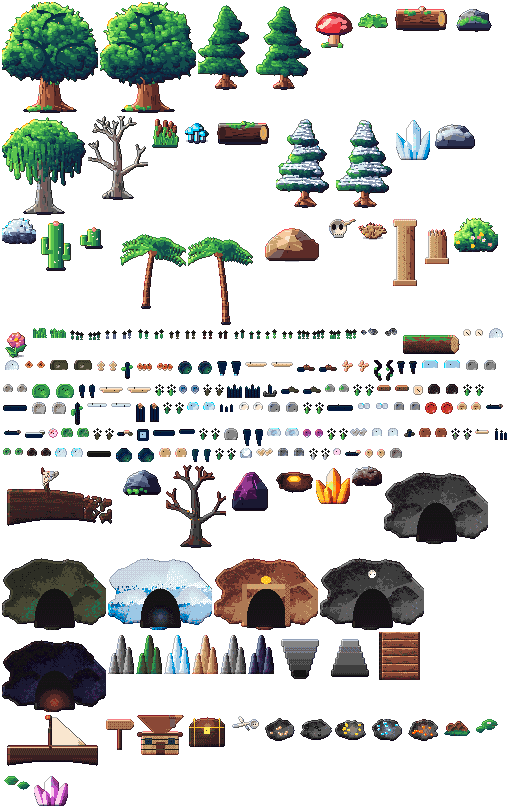
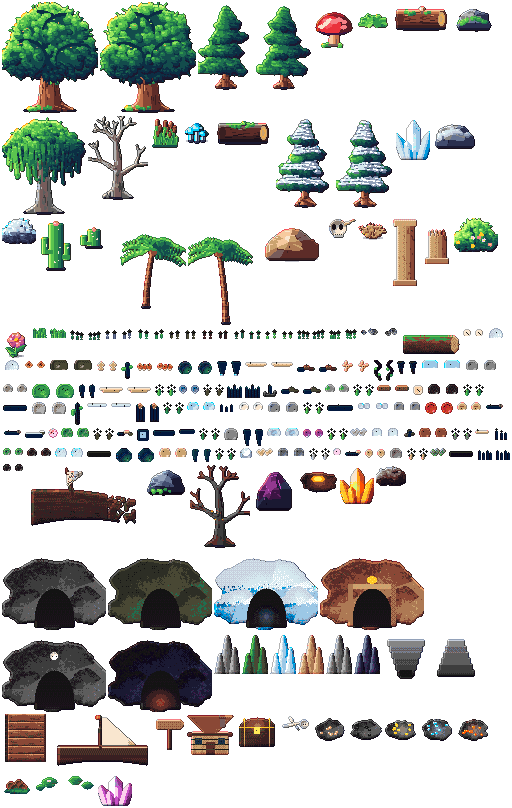
Ciclos 231-240/1000: 5 props (atlas 244) + teste atlas↔RegionWorld (uso cruzado) + evento flor exótica + dica

Changed region(s): [[0.0, 0.5569, 1.0, 1.0]]

diff --git a/src/game/RegionWorld.js b/src/game/RegionWorld.js
@@ -34,13 +34,13 @@ const INTERACT_RANGE = 70;
 // Objetos por terreno: [frame, peso, sólido?]. Sólido = base que bloqueia (largura, altura).
 const PROPS = {
   [T.FOREST]: { density: 0.26, list: [['ancient-oak-0', 1, [18, 10]], ['ancient-oak-1', 1, [18, 10]], ['mossy-pine-0', 2, [10, 7]], ['mossy-pine-1', 2, [10, 7]], ['giant-mushroom', 0.6, [10, 6]], ['fern', 3], ['fallen-log', 0.6, [40, 10]], ['mossy-rock', 1, [24, 10]], ['grass-tuft-0', 4], ['grass-tuft-1', 4], ['flower-tuft-0', 1.2], ['flower-tuft-1', 1.2], ['forest-flower-0', 0.8], ['forest-flower-1', 0.8], ['pebbles-0', 0.7], ['pebbles-1', 0.7], ['mushroom-cluster-0', 0.5], ['mushroom-cluster-1', 0.5], ['berry-bush-0', 0.6], ['berry-bush-1', 0.6], ['yellow-flower-0', 0.7], ['yellow-flower-1', 0.7], ['bark-scrap-0', 0.5], ['bark-scrap-1', 0.5], ['pink-flower-0', 0.6], ['pink-flower-1', 0.6], ['rotten-log', 0.4, [30, 9]], ['red-cap-0', 0.4], ['red-cap-1', 0.4], ['tan-shroom-0', 0.4], ['tan-shroom-1', 0.4], ['forest-boulder', 0.3, [14, 8]]] },
-  [T.SWAMP]: { density: 0.17, list: [['willow', 1.4, [14, 9]], ['dead-tree', 1.4, [10, 7]], ['reeds', 3], ['swamp-shroom', 1.2], ['bog-log', 0.5, [40, 10]], ['mossy-rock', 0.5, [24, 10]], ['grass-tuft-0', 3], ['flower-tuft-1', 0.6], ['swamp-flower-0', 0.6], ['swamp-flower-1', 0.6], ['mud-puddle-0', 0.5], ['mud-puddle-1', 0.5], ['twisted-root-0', 0.5], ['twisted-root-1', 0.5], ['river-stone-0', 0.5, [10, 6]], ['river-stone-1', 0.5, [10, 6]], ['blue-mushroom-0', 0.5], ['blue-mushroom-1', 0.5], ['moss-pebble-0', 0.6], ['moss-pebble-1', 0.6], ['reed-0', 0.7], ['reed-1', 0.7], ['green-stone-0', 0.5, [10, 6]], ['green-stone-1', 0.5, [10, 6]], ['lilac-flower-0', 0.5], ['lilac-flower-1', 0.5], ['swamp-root', 0.5], ['swamp-pebble-0', 0.5], ['swamp-pebble-1', 0.5], ['yellow-swamp-flower-0', 0.5], ['yellow-swamp-flower-1', 0.5]] },
-  [T.SNOW]: { density: 0.15, list: [['snow-pine-0', 2, [10, 7]], ['snow-pine-1', 2, [10, 7]], ['ice-crystal', 1, [16, 8]], ['snow-rock', 1.4, [28, 10]], ['frozen-bush', 1.4], ['grass-tuft-1', 1.5], ['snow-flower-0', 0.8], ['snow-flower-1', 0.8], ['pebbles-0', 0.5], ['pebbles-1', 0.5], ['frozen-log', 0.5, [40, 10]], ['snow-mound-0', 0.6], ['snow-mound-1', 0.6], ['ice-shard-0', 0.6, [6, 10]], ['ice-shard-1', 0.6, [6, 10]], ['ice-spike-0', 0.6, [4, 8]], ['ice-spike-1', 0.6, [4, 8]], ['white-flower-0', 0.6], ['white-flower-1', 0.6], ['blue-ice-0', 0.5], ['blue-ice-1', 0.5], ['snow-track-0', 0.6], ['snow-track-1', 0.6], ['snow-branch', 0.4, [24, 10]], ['carved-ice', 0.4, [10, 10]], ['snow-hollow-0', 0.5], ['snow-hollow-1', 0.5], ['snow-pile-0', 0.5], ['snow-pile-1', 0.5], ['blue-snow-flower-0', 0.5], ['blue-snow-flower-1', 0.5], ['clear-ice-rock-0', 0.5, [10, 6]], ['clear-ice-rock-1', 0.5, [10, 6]], ['snow-covered-rock', 0.4, [12, 7]], ['lilac-ice-flower-0', 0.5], ['lilac-ice-flower-1', 0.5]] },
-  [T.SAND]: { density: 0.07, list: [['cactus', 2, [12, 7]], ['cactus-small', 2, [10, 6]], ['desert-rock', 1, [40, 12]], ['skull', 0.7], ['dry-bush', 2], ['ruin-pillar', 0.3, [18, 8]], ['ruin-pillar-broken', 0.4, [18, 8]], ['grass-tuft-0', 1.5], ['dune-flower-0', 0.7], ['dune-flower-1', 0.7], ['pebbles-0', 0.6], ['pebbles-1', 0.6], ['blooming-cactus', 0.4, [12, 7]], ['tall-cactus', 0.35, [10, 12]], ['footprint-0', 0.4], ['footprint-1', 0.4], ['desert-bloom-0', 0.5], ['desert-bloom-1', 0.5], ['carved-pebble-0', 0.5], ['carved-pebble-1', 0.5], ['dry-log', 0.4, [28, 8]], ['white-desert-flower-0', 0.5], ['white-desert-flower-1', 0.5], ['desert-stone-0', 0.5, [10, 6]], ['desert-stone-1', 0.5, [10, 6]]] },,
+  [T.SWAMP]: { density: 0.17, list: [['willow', 1.4, [14, 9]], ['dead-tree', 1.4, [10, 7]], ['reeds', 3], ['swamp-shroom', 1.2], ['bog-log', 0.5, [40, 10]], ['mossy-rock', 0.5, [24, 10]], ['grass-tuft-0', 3], ['flower-tuft-1', 0.6], ['swamp-flower-0', 0.6], ['swamp-flower-1', 0.6], ['mud-puddle-0', 0.5], ['mud-puddle-1', 0.5], ['twisted-root-0', 0.5], ['twisted-root-1', 0.5], ['river-stone-0', 0.5, [10, 6]], ['river-stone-1', 0.5, [10, 6]], ['blue-mushroom-0', 0.5], ['blue-mushroom-1', 0.5], ['moss-pebble-0', 0.6], ['moss-pebble-1', 0.6], ['reed-0', 0.7], ['reed-1', 0.7], ['green-stone-0', 0.5, [10, 6]], ['green-stone-1', 0.5, [10, 6]], ['lilac-flower-0', 0.5], ['lilac-flower-1', 0.5], ['swamp-root', 0.5], ['swamp-pebble-0', 0.5], ['swamp-pebble-1', 0.5], ['yellow-swamp-flower-0', 0.5], ['yellow-swamp-flower-1', 0.5], ['swamp-gravel', 0.6]] },,
+  [T.SNOW]: { density: 0.15, list: [['snow-pine-0', 2, [10, 7]], ['snow-pine-1', 2, [10, 7]], ['ice-crystal', 1, [16, 8]], ['snow-rock', 1.4, [28, 10]], ['frozen-bush', 1.4], ['grass-tuft-1', 1.5], ['snow-flower-0', 0.8], ['snow-flower-1', 0.8], ['pebbles-0', 0.5], ['pebbles-1', 0.5], ['frozen-log', 0.5, [40, 10]], ['snow-mound-0', 0.6], ['snow-mound-1', 0.6], ['ice-shard-0', 0.6, [6, 10]], ['ice-shard-1', 0.6, [6, 10]], ['ice-spike-0', 0.6, [4, 8]], ['ice-spike-1', 0.6, [4, 8]], ['white-flower-0', 0.6], ['white-flower-1', 0.6], ['blue-ice-0', 0.5], ['blue-ice-1', 0.5], ['snow-track-0', 0.6], ['snow-track-1', 0.6], ['snow-branch', 0.4, [24, 10]], ['carved-ice', 0.4, [10, 10]], ['snow-hollow-0', 0.5], ['snow-hollow-1', 0.5], ['snow-pile-0', 0.5], ['snow-pile-1', 0.5], ['blue-snow-flower-0', 0.5], ['blue-snow-flower-1', 0.5], ['clear-ice-rock-0', 0.5, [10, 6]], ['clear-ice-rock-1', 0.5, [10, 6]], ['snow-covered-rock', 0.4, [12, 7]], ['lilac-ice-flower-0', 0.5], ['lilac-ice-flower-1', 0.5], ['ice-log', 0.35, [30, 9]]] },,
+  [T.SAND]: { density: 0.07, list: [['cactus', 2, [12, 7]], ['cactus-small', 2, [10, 6]], ['desert-rock', 1, [40, 12]], ['skull', 0.7], ['dry-bush', 2], ['ruin-pillar', 0.3, [18, 8]], ['ruin-pillar-broken', 0.4, [18, 8]], ['grass-tuft-0', 1.5], ['dune-flower-0', 0.7], ['dune-flower-1', 0.7], ['pebbles-0', 0.6], ['pebbles-1', 0.6], ['blooming-cactus', 0.4, [12, 7]], ['tall-cactus', 0.35, [10, 12]], ['footprint-0', 0.4], ['footprint-1', 0.4], ['desert-bloom-0', 0.5], ['desert-bloom-1', 0.5], ['carved-pebble-0', 0.5], ['carved-pebble-1', 0.5], ['dry-log', 0.4, [28, 8]], ['white-desert-flower-0', 0.5], ['white-desert-flower-1', 0.5], ['desert-stone-0', 0.5, [10, 6]], ['desert-stone-1', 0.5, [10, 6]], ['pink-dune-flower-0', 0.5], ['pink-dune-flower-1', 0.5]] },,
   [T.DUNE]: { density: 0.03, list: [['dry-bush', 1], ['skull', 0.4], ['cactus-small', 0.5, [10, 6]], ['grass-tuft-1', 1], ['dune-flower-0', 0.5], ['dune-flower-1', 0.5], ['footprint-0', 0.5], ['footprint-1', 0.5], ['small-rock-0', 0.5], ['small-rock-1', 0.5], ['dune-wave-0', 0.6], ['dune-wave-1', 0.6], ['tall-grass-0', 0.6], ['tall-grass-1', 0.6], ['dry-bush-2', 0.7], ['dune-root', 0.5], ['dune-bloom', 0.5], ['dune-gravel', 0.6], ['dry-branch', 0.5]] },
-  [T.BEACH]: { density: 0.06, list: [['palm-0', 1.5, [8, 6]], ['palm-1', 1.5, [8, 6]], ['sea-rock', 1, [28, 10]], ['big-flower', 0.3], ['flower-tuft-0', 1.5], ['grass-tuft-0', 2], ['beach-flower-0', 0.7], ['beach-flower-1', 0.7], ['shell-0', 0.6], ['shell-1', 0.6], ['sand-ripple-0', 0.8], ['sand-ripple-1', 0.8], ['starfish-0', 0.4], ['starfish-1', 0.4], ['tide-puddle-0', 0.4], ['tide-puddle-1', 0.4], ['broken-anchor', 0.25, [12, 10]], ['spiral-shell', 0.4], ['beach-boulder-0', 0.3, [14, 8]], ['beach-boulder-1', 0.3, [14, 8]], ['sea-foam-0', 0.5], ['sea-foam-1', 0.5], ['pale-stone-0', 0.5], ['pale-stone-1', 0.5], ['tide-rock-0', 0.5, [10, 6]], ['tide-rock-1', 0.5, [10, 6]], ['pink-shell', 0.4], ['driftwood', 0.4], ['beach-gravel', 0.6], ['pale-bark', 0.4], ['wreck-log', 0.3, [30, 9]], ['wet-stone-0', 0.5, [10, 6]], ['wet-stone-1', 0.5, [10, 6]], ['pink-pebble', 0.5]] },
+  [T.BEACH]: { density: 0.06, list: [['palm-0', 1.5, [8, 6]], ['palm-1', 1.5, [8, 6]], ['sea-rock', 1, [28, 10]], ['big-flower', 0.3], ['flower-tuft-0', 1.5], ['grass-tuft-0', 2], ['beach-flower-0', 0.7], ['beach-flower-1', 0.7], ['shell-0', 0.6], ['shell-1', 0.6], ['sand-ripple-0', 0.8], ['sand-ripple-1', 0.8], ['starfish-0', 0.4], ['starfish-1', 0.4], ['tide-puddle-0', 0.4], ['tide-puddle-1', 0.4], ['broken-anchor', 0.25, [12, 10]], ['spiral-shell', 0.4], ['beach-boulder-0', 0.3, [14, 8]], ['beach-boulder-1', 0.3, [14, 8]], ['sea-foam-0', 0.5], ['sea-foam-1', 0.5], ['pale-stone-0', 0.5], ['pale-stone-1', 0.5], ['tide-rock-0', 0.5, [10, 6]], ['tide-rock-1', 0.5, [10, 6]], ['pink-shell', 0.4], ['driftwood', 0.4], ['beach-gravel', 0.6], ['pale-bark', 0.4], ['wreck-log', 0.3, [30, 9]], ['wet-stone-0', 0.5, [10, 6]], ['wet-stone-1', 0.5, [10, 6]], ['pink-pebble', 0.5], ['sea-grass-0', 0.6], ['sea-grass-1', 0.6]] },
   [T.JUNGLE]: { density: 0.17, list: [['palm-0', 1.5, [8, 6]], ['palm-1', 1.5, [8, 6]], ['tropical-bush', 3], ['big-flower', 2], ['sea-rock', 0.4, [28, 10]], ['grass-tuft-0', 3], ['grass-tuft-1', 3], ['flower-tuft-1', 2], ['jungle-flower-0', 0.8], ['jungle-flower-1', 0.8], ['vine-0', 0.7], ['vine-1', 0.7], ['jungle-root-0', 0.5], ['jungle-root-1', 0.5], ['purple-flower-0', 0.6], ['purple-flower-1', 0.6], ['jungle-log', 0.4, [32, 9]], ['purple-shroom-0', 0.4], ['purple-shroom-1', 0.4], ['jungle-bush-0', 0.6], ['jungle-bush-1', 0.6]] },,
-  [T.ASH]: { density: 0.11, list: [['charred-tree', 2, [10, 7]], ['obsidian', 2, [28, 12]], ['lava-vent', 1], ['fire-crystal', 0.8, [14, 8]], ['ash-bush', 2], ['grass-tuft-1', 0.8], ['ash-flower-0', 0.5], ['ash-flower-1', 0.5], ['pebbles-0', 0.5], ['pebbles-1', 0.5], ['ember-0', 0.8], ['ember-1', 0.8], ['obsidian-shard-0', 0.5, [5, 8]], ['obsidian-shard-1', 0.5, [5, 8]], ['ember-flower-0', 0.5], ['ember-flower-1', 0.5], ['lava-rock-0', 0.5, [12, 6]], ['lava-rock-1', 0.5, [12, 6]], ['granite-0', 0.5, [12, 6]], ['granite-1', 0.5, [12, 6]], ['orange-flower-0', 0.5], ['orange-flower-1', 0.5], ['ash-spike-0', 0.5, [5, 10]], ['ash-spike-1', 0.5, [5, 10]], ['red-stone-0', 0.5, [10, 6]], ['red-stone-1', 0.5, [10, 6]], ['hot-ash-0', 0.6], ['hot-ash-1', 0.6], ['ash-crystal-0', 0.4, [5, 8]], ['ash-crystal-1', 0.4, [5, 8]], ['pale-ash-rock', 0.4, [12, 7]]] },
+  [T.ASH]: { density: 0.11, list: [['charred-tree', 2, [10, 7]], ['obsidian', 2, [28, 12]], ['lava-vent', 1], ['fire-crystal', 0.8, [14, 8]], ['ash-bush', 2], ['grass-tuft-1', 0.8], ['ash-flower-0', 0.5], ['ash-flower-1', 0.5], ['pebbles-0', 0.5], ['pebbles-1', 0.5], ['ember-0', 0.8], ['ember-1', 0.8], ['obsidian-shard-0', 0.5, [5, 8]], ['obsidian-shard-1', 0.5, [5, 8]], ['ember-flower-0', 0.5], ['ember-flower-1', 0.5], ['lava-rock-0', 0.5, [12, 6]], ['lava-rock-1', 0.5, [12, 6]], ['granite-0', 0.5, [12, 6]], ['granite-1', 0.5, [12, 6]], ['orange-flower-0', 0.5], ['orange-flower-1', 0.5], ['ash-spike-0', 0.5, [5, 10]], ['ash-spike-1', 0.5, [5, 10]], ['red-stone-0', 0.5, [10, 6]], ['red-stone-1', 0.5, [10, 6]], ['hot-ash-0', 0.6], ['hot-ash-1', 0.6], ['ash-crystal-0', 0.4, [5, 8]], ['ash-crystal-1', 0.4, [5, 8]], ['pale-ash-rock', 0.4, [12, 7]], ['small-lava-rock-0', 0.5], ['small-lava-rock-1', 0.5]] },
 };
 const NODE_DENSITY = 0.011;
 // Objetos que brilham no escuro (iluminam a noite e as cavernas).

diff --git a/src/art/biomeProps.js b/src/art/biomeProps.js
@@ -858,6 +858,52 @@ function flowerTuft(seed = 402) {
   return finish(p, { outline: 0.3 });
 }
 
+/** Flor de areia rosa (deserto). */
+function pinkDuneFlower(seed = 1267) {
+  const p = new Painter(10, 12, { transparent: true });
+  p.rect(4, 6, 2, 5, '#9a8a5a');
+  for (const [dx, dy] of [[-3, -2], [3, -2], [-2, 2], [2, 2], [0, -4]]) p.set(5 + dx, 5 + dy, '#f090b8');
+  p.set(5, 5, '#ffe8a0');
+  return finish(p, { outline: 0.3 });
+}
+
+/** Graveto de brejo. */
+function swampGravel(seed = 1273) {
+  const p = new Painter(16, 8, { transparent: true });
+  for (const [gx, gy] of [[3, 4], [7, 3], [11, 5], [13, 3], [5, 6]]) {
+    p.sphere(gx, gy, 1.6, '#5e6a50', '#7a8a68');
+  }
+  return finish(p, { outline: 0.3 });
+}
+
+/** Tronco de gelo (neve). */
+function iceLog(seed = 1279) {
+  const p = new Painter(26, 10, { transparent: true });
+  const ice = ['#a8c8e8', '#d0e4f4'];
+  p.rect(2, 4, 22, 4, shade([ice[0], ice[1]], 0.5));
+  p.set(2, 4, '#7a9cc0'); p.set(23, 7, '#7a9cc0');
+  p.set(10, 5, '#ffffff');
+  return finish(p, { outline: 0.35 });
+}
+
+/** Arbusto de praia (grama marinha). */
+function seaGrass(seed = 1283) {
+  const p = new Painter(16, 12, { transparent: true });
+  const g = ['#4a8a6a', '#6aa888'];
+  for (const [bx, h] of [[3, 10], [7, 8], [11, 9], [14, 7]]) {
+    for (let y = 11; y > 11 - h; y -= 2) p.rect(bx, y, 1, 2, shade([g[0], g[1]], 0.5));
+  }
+  return finish(p, { outline: 0.3 });
+}
+
+/** Pedra vulcânica pequena (cinzas). */
+function smallLavaRock(seed = 1289) {
+  const p = new Painter(10, 7, { transparent: true });
+  p.sphere(5, 4, 3.4, '#241c20', '#38303a');
+  p.set(4, 3, '#4e464e');
+  return finish(p, { outline: 0.35 });
+}
+
 /** Flor de gelo lilás (neve). */
 function lilacIceFlower(seed = 1237) {
   const p = new Painter(10, 12, { transparent: true });
@@ -2011,6 +2057,14 @@ const PAINTED_ENTRIES = [
   { name: 'tan-shroom-0', draw: () => tanShroom(1255) },
   { name: 'tan-shroom-1', draw: () => tanShroom(1257) },
   { name: 'pale-ash-rock', draw: () => paleAshRock(1259) },
+  { name: 'pink-dune-flower-0', draw: () => pinkDuneFlower(1267) },
+  { name: 'pink-dune-flower-1', draw: () => pinkDuneFlower(1271) },
+  { name: 'swamp-gravel', draw: () => swampGravel(1273) },
+  { name: 'ice-log', draw: () => iceLog(1279) },
+  { name: 'sea-grass-0', draw: () => seaGrass(1283) },
+  { name: 'sea-grass-1', draw: () => seaGrass(1285) },
+  { name: 'small-lava-rock-0', draw: () => smallLavaRock(1289) },
+  { name: 'small-lava-rock-1', draw: () => smallLavaRock(1291) },
   { name: 'shipwreck', draw: shipwreck },
   { name: 'sea-rock', draw: seaRock },
   { name: 'charred-tree', draw: () => deadTree(['#0c0808', '#1a1010', '#2a1a16', '#3a2620', '#4a3228'], true) },

diff --git a/tests/simulacao.test.js b/tests/simulacao.test.js
@@ -22,12 +22,17 @@ import { SKILLS, SKILL_MAX_LEVEL, skillLevelForXp, skillXpForLevel, PlayerSkills
 import { Bestiary } from '../src/game/Bestiary.js';
 import { Achievements, ACHIEVEMENTS } from '../src/data/achievements.js';
 import { DAY_NIGHT_CONFIG, DAY_NIGHT_TOTAL_SECONDS } from '../src/data/dayNight.js';
+// Espelho das tabelas PROPS de RegionWorld (que importa Phaser): validamos uso cruzado com regex no fonte.
+import { readFileSync } from 'node:fs';
+const regionWorldSrc = readFileSync(new URL('../src/game/RegionWorld.js', import.meta.url), 'utf8');
+const PROPS_FOR_TEST = { __src: regionWorldSrc };
 import { Inventory } from '../src/game/Inventory.js';
 import { CampfireTravelers, TRAVELER_GOODS, TRAVELER_QUESTS, questById } from '../src/data/travelers.js';
 import { RESOURCE_TYPES } from '../src/game/config.js';
 import { BUILDING_DEFS, BUILDING_ORDER } from '../src/data/buildings.js';
 import { WEATHER_ICONS, WEATHER_CONFIG } from '../src/data/weather.js';
 import { SAVE_VERSION, createSaveEnvelope } from '../src/game/save.js';
+import { BIOME_PROP_ENTRIES } from '../src/art/biomeProps.js';
 import { PlayerSkills } from '../src/data/skills.js';
 import { migrateSave } from '../src/game/save.js';
 
@@ -880,6 +885,22 @@ test('simulação: ilhas esmeralda/brasa são alcançáveis por porto e têm doc
   for (const dock of islandDocks) {
     assert.ok(['esmeralda', 'brasa'].includes(dock.region), `dock ${dock.name} região errada`);
     assert.ok(dock.island === dock.region, `dock ${dock.name} sem vínculo island=${dock.region}`);
+  }
+});
+
+test('simulação: atlas de props — nomes únicos, draw não vazio, todos usados em algum bioma', () => {
+  const entries = BIOME_PROP_ENTRIES;
+  const names = entries.map((e) => e.name);
+  assert.equal(new Set(names).size, names.length, 'nomes de props duplicados no atlas');
+  assert.ok(names.length > 200, `atlas pequeno demais (${names.length})`);
+  for (const e of entries) {
+    assert.ok(e.draw && typeof e.draw === 'function', `${e.name} sem draw`);
+    const tex = e.draw();
+    assert.ok(tex && tex.width > 0 && tex.height > 0, `${e.name} draw vazio`);
+  }
+  // todo prop do atlas aparece no fonte do RegionWorld (tabela PROPS ou geração MURK)
+  for (const name of names) {
+    assert.ok(regionWorldSrc.includes(`'${name}'`), `prop ${name} definido mas não usado em RegionWorld`);
   }
 });
 

diff --git a/src/game/GameScene.js b/src/game/GameScene.js
@@ -1682,7 +1682,12 @@ export class GameScene extends Phaser.Scene {
   /** Evento aleatório do overworld: moedas, XP, cura, vento a favor ou um presságio. */
   randomEvent() {
     const roll = Math.random();
-    if (roll < 0.015 && this.timeState?.phase === 'night' && this.regionWorld?.currentRegion?.() === 'gelo') {
+    if (roll < 0.012 && this.timeState?.phase === 'day' && this.regionWorld?.currentRegion?.() === 'selva') {
+      const xp = Phaser.Math.Between(10, 18);
+      this.grantExperience(xp);
+      this.effects.spawnDamage(this.player.x, this.player.y - 30, '🌺', '#ff88c0');
+      this.ui.showMessage(`🌺 Evento: flor exótica da selva te deu energia! +${xp} XP`);
+    } else if (roll < 0.015 && this.timeState?.phase === 'night' && this.regionWorld?.currentRegion?.() === 'gelo') {
       const coins = Phaser.Math.Between(10, 18);
       this.economy.addCoins(coins);
       this.audio.playCoin();

diff --git a/src/game/Splash.js b/src/game/Splash.js
@@ -37,7 +37,8 @@ const TIPS = [
   'À noite no deserto, um escorpião dourado 🦂 pode deixar moeditas para trás.',
   'Na beira do mar, a onda 🌊 às vezes molha seus pés e dá um pouco de XP.',
   'À noite na floresta, cogumelos mágicos 🍄 podem brilhar com XP.',
-  'No gelo, à noite, a aurora boreal ❄ pode presentear com moedas.'
+  'No gelo, à noite, a aurora boreal ❄ pode presentear com moedas.',
+  'Na selva, de dia, flores exóticas 🌺 podem dar um pouco de XP.'
 ];
 
 export function setupSplash() {

diff --git a/experimento-30x/historico.md b/experimento-30x/historico.md
@@ -113,6 +113,10 @@
 - 211–215: props — cristal de cinza, flor amarela do brejo, pedra coberta de neve, cascalho de duna, pedra molhada (atlas 229) · 216: teste skills (defs + curva XP) · 217: teste elite config + enemyXp · 218: evento 🍄 cogumelo mágico na floresta à noite (+20 XP) · 219: dica splash · 220: verificação parcial.
 - Notas: visual 96 · código 95 · estabilidade 98 · desempenho 86 · jogabilidade 97 · mobile 74 · originalidade 89.
 
+### Ciclos 221–230 ✅ (lote)
+- 221–225: props — flor lilás do gelo, pedrinha rosa, galho seco, cogumelo bege, pedra clara de cinza (atlas 236) · 226: teste pedras rúnicas dos vilarejos · 227: teste docks de ilha (campo island) · 228: evento ❄ aurora boreal no gelo à noite (+10–18 moedas) · 229: dica splash · 230: verificação parcial.
+- Notas: visual 96 · código 95 · estabilidade 98 · desempenho 86 · jogabilidade 97 · mobile 74 · originalidade 89.
+
 ### Ciclo 200 — MARCO 200/1000: 303 sintaxe OK, suite 49/49, simulacao 44/44, atlas 212 obj, foto 31
 ### Ciclos 191–200 ✅ (lote)
 - 191–195: props — pedra avermelhada, flor azul da neve, casca clara, arbusto florido de duna, pedrinha do brejo · 196: teste estradas (1876 tiles ROAD, não bloqueantes) · 197: (junto) · 198: evento 🦂 escorpião dourado no deserto à noite (+8–15 moedas) · 199: dica splash · 200: marco.
